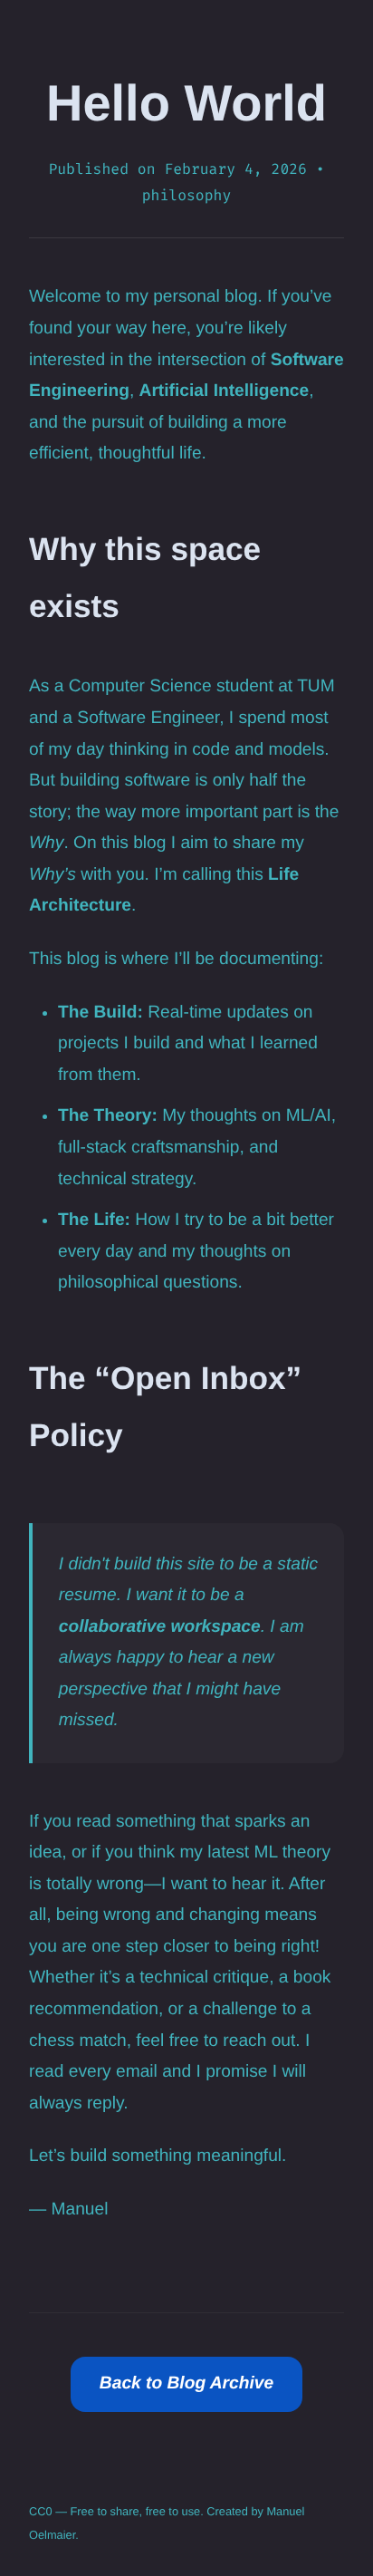
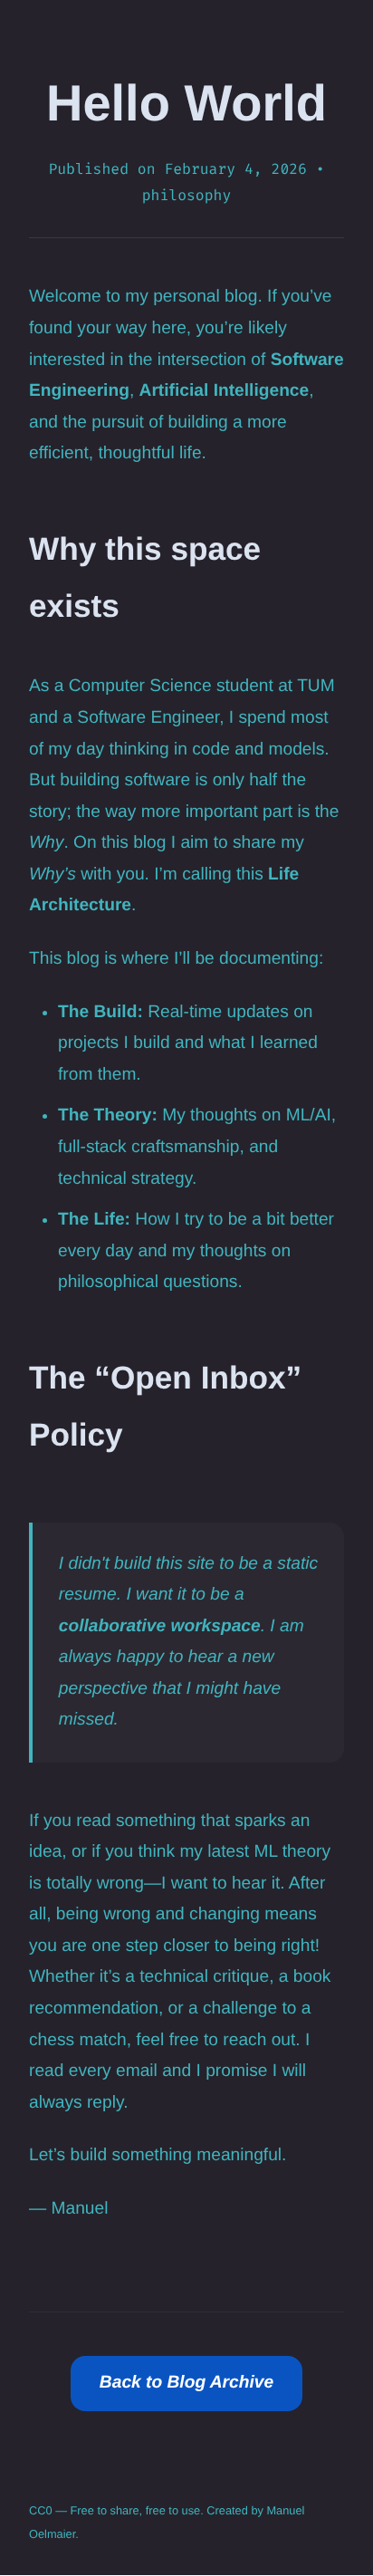
node version bump

diff --git a/e2e/layout.spec.ts b/e2e/layout.spec.ts
@@ -9,13 +9,12 @@ function snapshotName(path: (typeof pages)[number]): string {
   return path.replace(/^\/|\/$/g, '').replace(/\//g, '-');
 }
 
-test.describe.configure({ project: ['mobile-chrome'] });
-
-for (const path of pages) {
-  test(`screenshot ${path}`, async ({ page }) => {
-    await page.goto(path);
-    await page.addStyleTag({
-      content: `
+test.describe('mobile layout screenshots', () => {
+  for (const path of pages) {
+    test(`screenshot ${path}`, async ({ page }) => {
+      await page.goto(path);
+      await page.addStyleTag({
+        content: `
         *, *::before, *::after {
           animation-duration: 0s !important;
           animation-delay: 0s !important;
@@ -23,11 +22,11 @@ for (const path of pages) {
           opacity: 1 !important;
         }
       `,
-    });
+      });
 
-    await expect(page).toHaveScreenshot(`${snapshotName(path)}.png`, {
-      fullPage: true,
-      maxDiffPixelRatio: 0.01,
+      await expect(page.locator('main')).toHaveScreenshot(`${snapshotName(path)}.png`, {
+        maxDiffPixelRatio: 0.05,
+      });
     });
-  });
-}
+  }
+});

diff --git a/playwright.config.ts b/playwright.config.ts
@@ -13,6 +13,7 @@ export default defineConfig({
   projects: [
     {
       name: 'chromium',
+      testIgnore: /layout\.spec\.ts$/,
       use: { ...devices['Desktop Chrome'] },
     },
     {